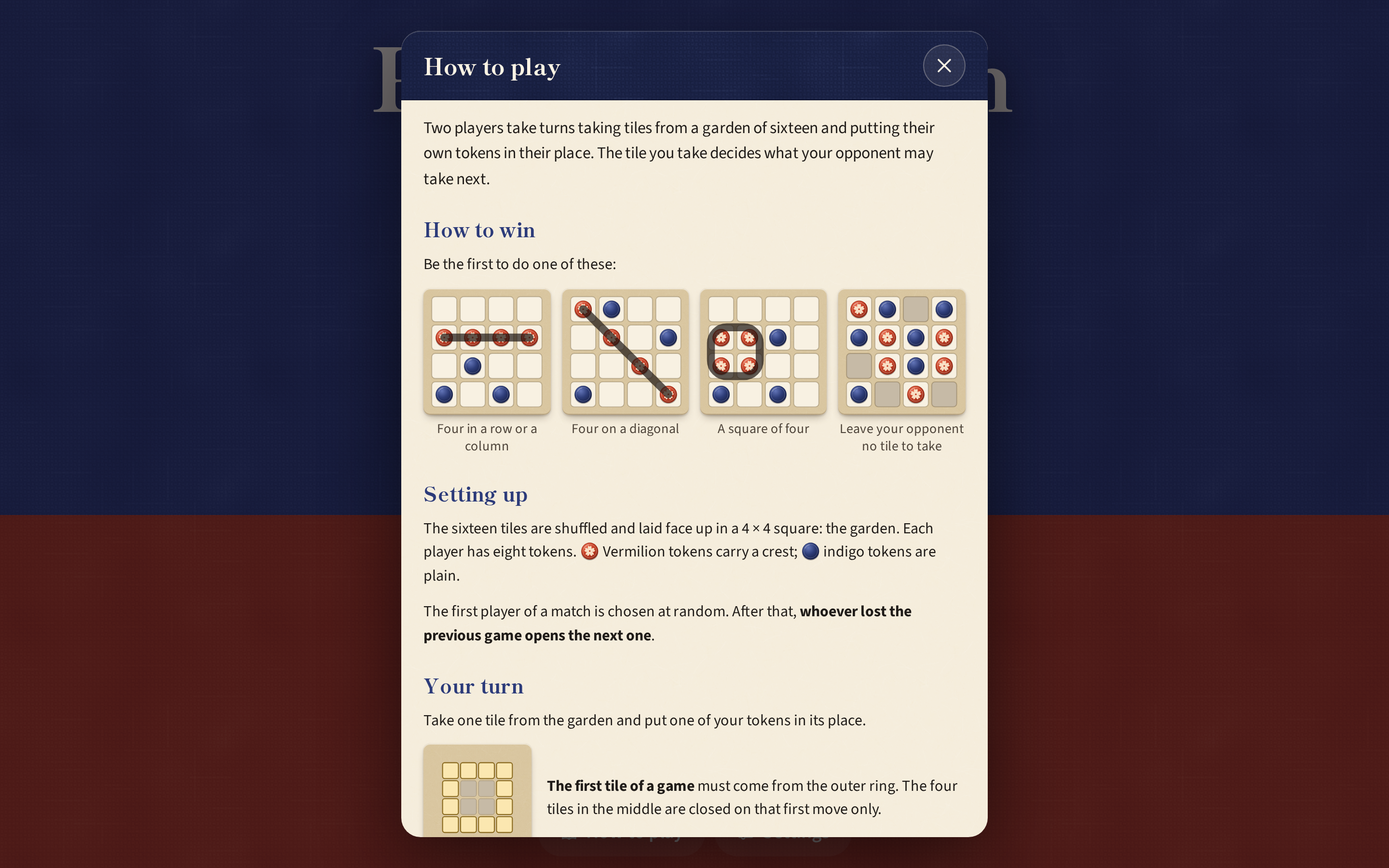
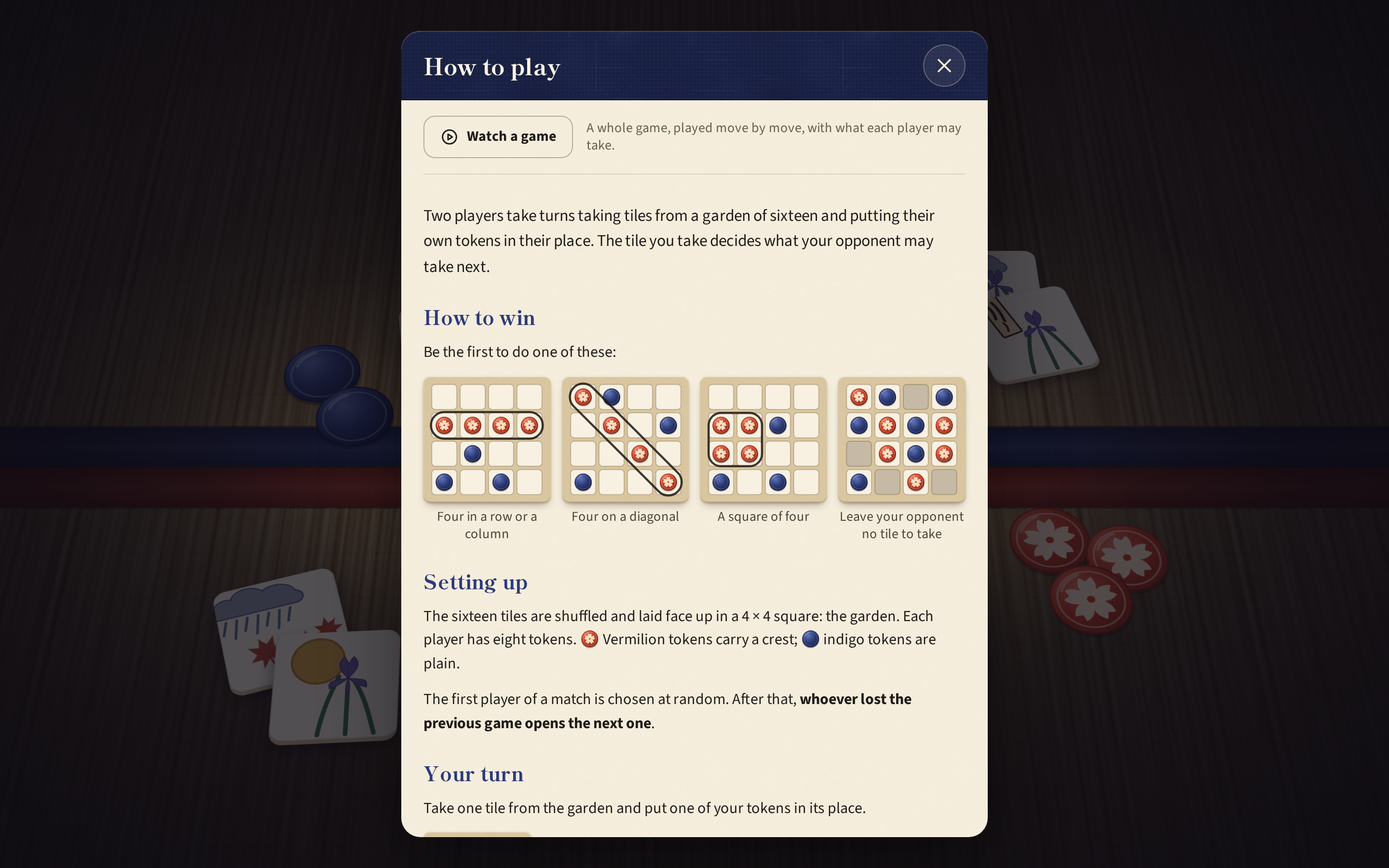
Screenshots and share image of the final build; README mentions Watch a game
Recaptured with scripts/capture.ts from the final build: the tatami home with Watch a game, the
paper slip at a game's end, the New game sheet with its Match row, How to play.

Claude-Session: https://claude.ai/code/session_01GUVTc6JGuU448Uoq2sUtpE

diff --git a/README.md b/README.md
@@ -22,7 +22,8 @@ in its place.
   garden) to 10, 15 or 20.
 
 The full rules, their sources and the one interpretation this edition makes are in
-[docs/RULES.md](docs/RULES.md); the game has an illustrated "How to play" sheet too.
+[docs/RULES.md](docs/RULES.md); the game has an illustrated "How to play" sheet too, and "Watch a
+game", a demonstration that plays a whole game and says, move by move, what each player may take.
 
 ## Run it
 
